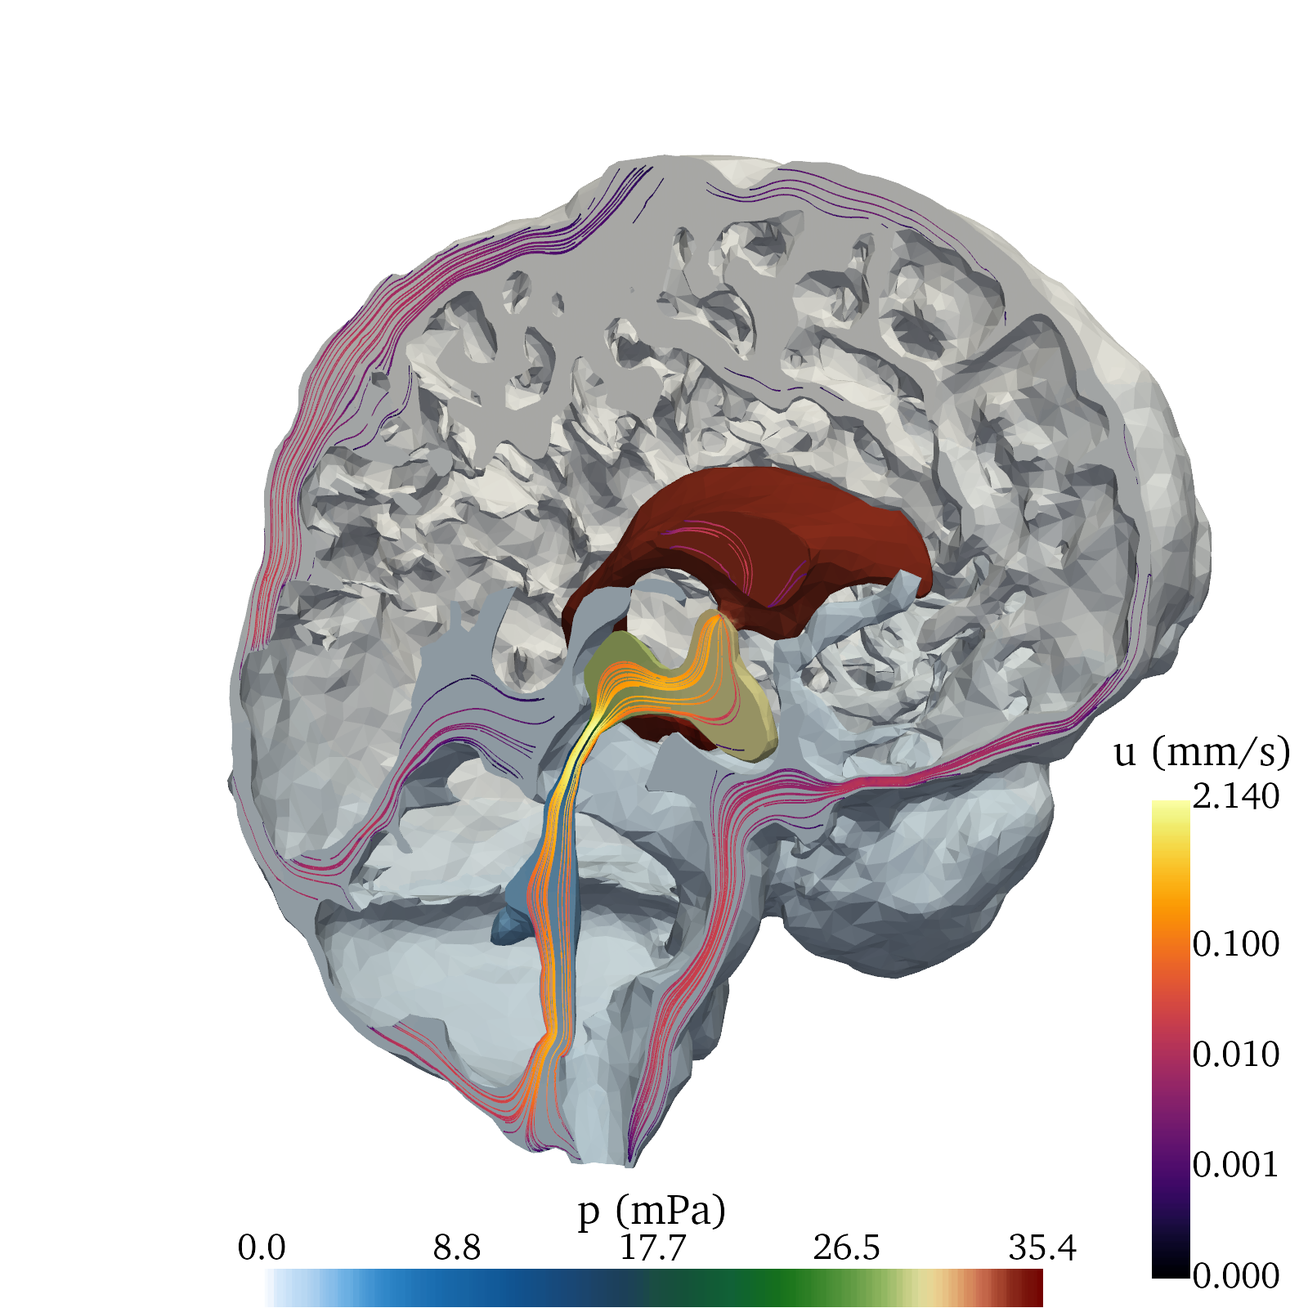
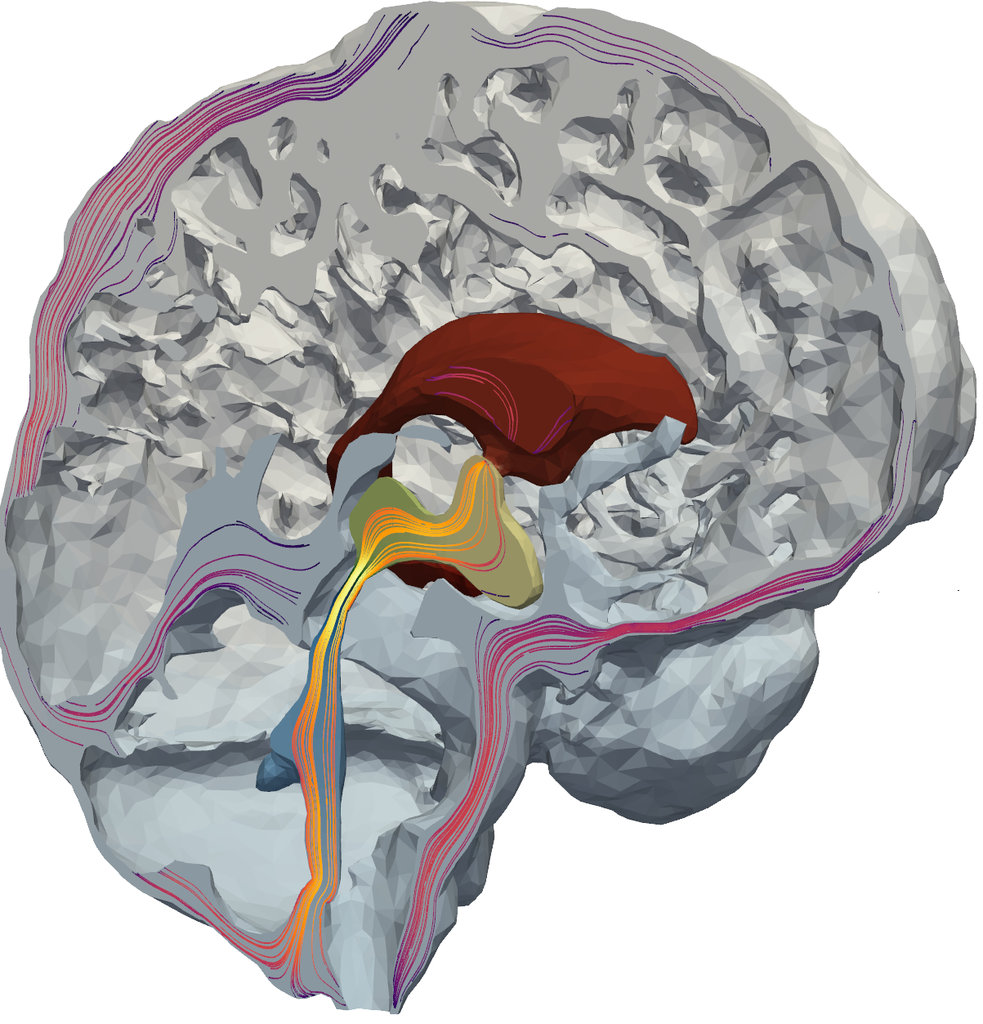
update figure 3

diff --git a/figure3.html b/figure3.html
@@ -1,33 +1,88 @@
-<style>
-    .svg-container text {
-      font-size: 16px;
-    }
-  </style>
-<img src="plots/meshplots/labeled_arteries.png" style="position:absolute;left:10px;top:25px;width:490px;height:380px;filter:hue-rotate(-00deg);object-fit:contain;">
-<img src="paper/figures/peristaltic_flow.png" style="position:relative;left:530px;top:10px;width:344px;height:90px;object-fit:contain;">
-<img src="plots/pvs_flow_prod/sas_flow-arteries/sas_flow-arteries_radius.png" style="position:absolute;left:480px;top:100px;width:230px;height:150px;object-fit:contain;">
-<img src="plots/pvs_flow_prod/sas_flow-arteries/sas_flow-arteries_velocity.png" style="position:absolute;left:680px;top:100px;width:230px;height:150px;object-fit:contain;">
-<img src="plots/pvs_flow_peristaltic/cardiac_pvs_oscillation/cardiac_pvs_oscillation_velocity.png" style="position:absolute;left:480px;top:230px;width:230px;height:150px;object-fit:contain;">
-<img src="plots/pvs_flow_peristaltic/vasomotion-strong/vasomotion-strong_velocity.png" style="position:absolute;left:680px;top:230px;width:230px;height:150px;object-fit:contain;">
-<img src="plots/modelA/modelA_conc_at_label.png" style="position:absolute;left:0px;top:370px;width:450px;height:160px;object-fit:contain;">
-<img src="plots/modelA-strongVM/modelA-strongVM_conc_at_label.png" style="position:absolute;left:0px;top:501px;width:450px;height:160px;object-fit:contain;clip-path:inset(30px 0px 0px 0px);filter:hue-rotate(200deg);">
-<img src="plots/pvs_flow_prod/sas_flow-arteries/sas_flow-arteries_velocity_histo_cell.png" style="position:absolute;left:450px;top:380px;width:170px;height:149px;">
-<img src="plots/pvs_flow_peristaltic/cardiac_pvs_oscillation/cardiac_pvs_oscillation_velocity_histo_cell.png" style="position:absolute;left:600px;top:380px;width:180px;height:150px;">
-<img src="plots/pvs_flow_peristaltic/vasomotion-strong/vasomotion-strong_velocity_histo_cell.png" style="position:absolute;left:750px;top:380px;width:176px;height:150px;">
-<img src="plots/modelA/modelA_ridgeline_total_smoothed.png" style="position:absolute;left:450px;top:550px;width:152px;height:200px;">
-<img src="plots/modelA-PVS-disp/modelA-PVS-disp_ridgeline_total_smoothed.png" style="position:absolute;left:610px;top:550px;width:152px;height:200px;">
-<img src="plots/modelA-strongVM/modelA-strongVM_ridgeline_total_smoothed.png" style="position:absolute;left:770px;top:550px;width:150px;height:200px;">
-<img src="plots/modelA/modelA_1-2-3-4_MCA-R-0.1-2.0-8.0-12.0_details.png" style="position:absolute;left:0px;top:630px;width:450px;height:160px;object-fit:contain;clip-path:inset(0px 0px 50px 0px);filter:hue-rotate(200deg);">
-<img src="plots/modelA-strongVM/modelA-strongVM_1-2-3-4_MCA-R-0.1-2.0-8.0-12.0_details.png" style="position:absolute;left:0px;top:712px;width:450px;height:160px;object-fit:contain;clip-path:inset(30px 0px 0px 0px);filter:hue-rotate(-200deg);">
-<img src="plots/modelA/modelA_2-4-6-8_ACA-A4-0.1-0.2-1.0-2.0_details.png" style="position:absolute;left:0px;top:830px;width:450px;height:160px;object-fit:contain;clip-path:inset(0px 0px 50px 0px);filter:hue-rotate(-200deg);">
-<img src="plots/modelA-strongVM/modelA-strongVM_2-4-6-8_ACA-A4-0.1-0.2-1.0-2.0_details.png" style="position:absolute;left:0px;top:910px;width:450px;height:160px;object-fit:contain;clip-path:inset(30px 0px 0px 0px);filter:hue-rotate(-200deg);">
-<img src="plots/modelA/modelA_overview_4-6.png" style="position:absolute;left:-10px;top:1055px;width:440px;height:440px;object-fit:contain;clip-path:inset(0px 90px 0px 0px);">
-<img src="plots/modelA-PVS-disp/modelA-PVS-disp_overview_4-6.png" style="position:absolute;left:270px;top:1055px;width:410px;height:440px;object-fit:contain;clip-path:inset(0px 90px 0px 0px);">
-<img src="plots/modelA-strongVM/modelA-strongVM_overview_4-6.png" style="position:absolute;left:530px;top:1055px;width:410px;height:440px;object-fit:contain;clip-path:inset(0px 0px 0px 0px);">
-<object type="image/svg+xml" data="plots/comparisons/modelA_modelA-strongVM_modelA-PVS-disp/modelA_modelA-strongVM_modelA-PVS-disp_fta.svg" style="position:absolute;left:450px;top:750px;width:480px;height:300px;"></object>
-<h2 style="position:absolute;left:500px;top:-13px;width:px;height:32px;transform-origin:15px 16px;translate:0px 0px;">A</h2>
-<h2 style="position:absolute;left:500px;top:59px;width:px;height:32px;transform-origin:663px 626px;translate:0px 0px;">B</h2>
-<h2 style="position:absolute;left:697px;top:64px;width:px;height:32px;transform-origin:15px 16px;translate:0px 0px;">C</h2>
-<h2 style="position:absolute;left:702px;top:200px;width:px;height:32px;transform-origin:15px 16px;translate:0px 0px;">D</h2>
-<h2 style="position:absolute;left:5px;top:330px;width:px;height:32px;transform-origin:15px 16px;translate:0px 0px;">E</h2>
-<h2 style="position:absolute;left:495px;top:200px;width:px;height:32px;transform-origin:15px 16px;translate:0px 0px;">F</h2>
+<html lang="en">
+    <head>
+        <meta charset="UTF-8">
+        <meta name="viewport" content="width=device-width, initial-scale=1.0">
+        <title>Figure 3</title>
+        <style>
+        @page {
+            size: A4;
+            margin: 1cm;
+        }
+
+        body {
+            font-family: Arial, sans-serif;
+        }
+
+        h5 {
+            color: black;
+            text-align: center;
+            font-size: 9pt;
+            font-family: Helvetica;
+        }
+        h4 {
+            color: black;
+            text-align: left;
+            font-size: 8pt;
+            font-family: Helvetica;
+        }
+
+        p {
+            font-family: "Arial";
+            text-align: center;
+            font-size: 7pt;
+            font-weight: normal;
+        }
+    </style>
+    </head>
+</html>
+<img src="plots/meshplots/labeled_arteries.png" style="position:absolute;left:16px;top:18px;width:490px;height:380px;object-fit:contain;">
+<img src="paper/figures/peristaltic_flow_vertical.png" style="position:absolute;left:516px;top:165px;width:68px;height:211px;object-fit:contain;rotate:0deg;">
+<img src="plots/modelA/modelA_conc_at_label_annotated.png" style="position:absolute;left:16px;top:366px;width:794px;height:171px;object-fit:contain;clip-path:inset(0px 0px 30px 0px);filter:hue-rotate(0deg);">
+<img src="plots/modelA-strongVM/modelA-strongVM_conc_at_label.png" style="position:absolute;left:16px;top:467px;width:794px;height:160px;object-fit:contain;clip-path:inset(39px 0px 0px 0px);filter:hue-rotate(00deg);">
+<img src="plots/pvs_flow_prod/sas_flow-arteries/sas_flow-arteries_velocity_histo_cell.png" style="filter:hue-rotate(-100deg);clip-path:inset(0px 0px 25px 0px);object-fit:contain;position:absolute;left:600px;top:22px;width:220px;height:140px;">
+<img src="plots/modelA/modelA_overview_4-6.png" style="position:absolute;left:-22px;top:1002px;width:401px;height:380px;object-fit:contain;clip-path:inset(0px 90px 0px 0px);">
+<img src="plots/modelA-strongVM//modelA-strongVM_overview_4-6.png" style="position:absolute;left:229px;top:1002px;width:379px;height:380px;object-fit:contain;clip-path:inset(0px 90px 0px 0px);">
+<img src="plots/modelA-PVS-disp/modelA-PVS-disp_overview_4-6.png" style="position:absolute;left:472px;top:1002px;width:375px;height:380px;object-fit:contain;clip-path:inset(0px 0px 0px 0px);">
+<img src="paper/figures/csf_v_prod.png" style="position:absolute;left:499px;top:42px;width:101px;height:96px;object-fit:contain;rotate:0deg;">
+<img src="plots/pvs_flow_peristaltic/cardiac_pvs_oscillation/cardiac_pvs_oscillation_velocity_histo_cell.png" style="filter:hue-rotate(-100deg);clip-path:inset(0px 0px 25px 0px);object-fit:contain;position:absolute;left:600px;top:148px;width:220px;height:140px;">
+<img src="plots/comparisons/modelA_modelA-strongVM_modelA-PVS-disp/modelA_modelA-strongVM_modelA-PVS-disp_fta.png" style="position:absolute;left:1px;top:598px;width:400px;height:219px;object-fit:contain;clip-path:inset(0px 0px 0px 0px);filter:hue-rotate(00deg);">
+<img src="plots/modelA/modelA_ridgeline_pvs_total_smoothed.png" style="position:absolute;left:0px;top:803px;width:205px;height:200px;object-fit:contain;clip-path:inset(0px 0px 0px 0px);filter:hue-rotate(-30deg);">
+<img src="plots/modelA-strongVM/modelA-strongVM_ridgeline_pvs_total_smoothed.png" style="position:absolute;left:197px;top:803px;width:205px;height:200px;object-fit:contain;clip-path:inset(0px 0px 0px 0px);filter:hue-rotate(40deg);">
+<img src="plots/modelA/modelA_1+2+3+4_MCA-R_0.2+5.0+20.0+20.0_details.png" style="position:absolute;left:401px;top:583px;width:414px;height:163px;object-fit:contain;clip-path:inset(0px 0px 50px 15px);filter:hue-rotate(200deg);">
+<img src="plots/modelA-strongVM/modelA-strongVM_1+2+3+4_MCA-R_0.2+5.0+20.0+20.0_details.png" style="position:absolute;left:401px;top:662px;width:414px;height:161px;object-fit:contain;clip-path:inset(38px 0px 37px 15px);filter:hue-rotate(200deg);">
+<img src="plots/modelA/modelA_2+4+6+8_MCA2-R_0.2+8.0+8.0+5.0_details.png" style="position:absolute;left:401px;top:775px;width:413px;height:163px;object-fit:contain;clip-path:inset(0px 0px 50px 15px);filter:hue-rotate(200deg);">
+<img src="plots/modelA-strongVM/modelA-strongVM_2+4+6+8_MCA2-R_0.2+8.0+8.0+5.0_details.png" style="position:absolute;left:401px;top:854px;width:413px;height:161px;object-fit:contain;clip-path:inset(38px 0px 0px 15px);filter:hue-rotate(200deg);">
+<img src="plots/pvs_flow_peristaltic/vasomotion-strong/vasomotion-strong_velocity_histo_cell.png" style="filter:hue-rotate(-100deg);object-fit:contain;position:absolute;left:599px;top:274px;width:220px;height:140px;">
+<p style="position:absolute;left:639px;top:12px;width:171px;height:20px;">pressure-driven flow</p>
+<p style="position:absolute;left:639px;top:133px;width:171px;height:20px;">cardiac-driven flow</p>
+<p style="position:absolute;left:639px;top:260px;width:171px;height:20px;">vasomotion-driven flow</p>
+<p style="position:absolute;left:46px;top:986px;width:160px;height:20px;transform-origin:83px 10px;translate:0px 0px;">baseline</p>
+<p style="position:absolute;left:218px;top:793px;width:184px;height:20px;">high PVS flow</p>
+<h3 style="position:absolute;left:11px;top:8px;width:22px;height:21px;">A</h3>
+<h3 style="position:absolute;left:6px;top:350px;width:22px;height:21px;">G</h3>
+<h3 style="position:absolute;left:499px;top:5px;width:22px;height:21px;">B</h3>
+<h3 style="position:absolute;left:587px;top:5px;width:22px;height:21px;">C</h3>
+<h3 style="position:absolute;left:499px;top:5px;width:22px;height:21px;">B</h3>
+<h3 style="position:absolute;left:499px;top:5px;width:22px;height:21px;">B</h3>
+<h3 style="position:absolute;left:499px;top:124px;width:22px;height:21px;">D</h3>
+<h3 style="position:absolute;left:587px;top:123px;width:22px;height:21px;">E</h3>
+<h3 style="position:absolute;left:587px;top:249px;width:22px;height:21px;">F</h3>
+<h3 style="position:absolute;left:6px;top:590px;width:22px;height:21px;">H</h3>
+<h3 style="position:absolute;left:403px;top:590px;width:22px;height:21px;">I</h3>
+<h3 style="position:absolute;left:402px;top:776px;width:22px;height:21px;">J</h3>
+<h3 style="position:absolute;left:6px;top:776px;width:22px;height:21px;">K</h3>
+<h3 style="position:absolute;left:6px;top:975px;width:22px;height:21px;">L</h3>
+<h3 style="position:absolute;left:243px;top:975px;width:22px;height:21px;">M</h3>
+<h3 style="position:absolute;left:484px;top:975px;width:22px;height:21px;">N</h3>
+<p style="position:absolute;left:281px;top:986px;width:181px;height:20px;transform-origin:83px 10px;translate:0px 0px;">high PVS flow</p>
+<p style="position:absolute;left:521px;top:987px;width:181px;height:20px;transform-origin:83px 10px;translate:0px 0px;">high PVS dispersion</p>
+<p style="position:absolute;left:20px;top:793px;width:177px;height:20px;">baseline</p>
+<p style="position:absolute;left:381px;top:663px;width:64px;height:20px;rotate:270deg;">baseline</p>
+<p style="position:absolute;left:369px;top:741px;width:88px;height:20px;rotate:270deg;">High PVS flow</p>
+<p style="position:absolute;left:370px;top:913px;width:88px;height:20px;rotate:270deg;">High PVS flow</p>
+<p style="position:absolute;left:381px;top:834px;width:64px;height:20px;rotate:270deg;">baseline</p>
+<p style="position:absolute;left:-30px;top:530px;width:88px;height:20px;rotate:270deg;">High PVS flow</p>
+<p style="position:absolute;left:-18px;top:434px;width:64px;height:20px;rotate:270deg;">baseline</p>
+<p style="position:absolute;left:587px;top:621px;width:65px;height:20px;transform-origin:83px 10px;translate:0px 0px;">MCA-R</p>
+<p style="position:absolute;left:587px;top:818px;width:65px;height:20px;transform-origin:83px 10px;translate:0px 0px;">MCA2-R</p>
+<p style="position:absolute;left:16px;top:787px;width:383px;height:20px;">total PVS tracer content</p>

diff --git a/scripts/compare_PVS_timing.py b/scripts/compare_PVS_timing.py
@@ -16,6 +16,7 @@ def plot_timings(models:List[str]):
 
     results = dict()
     for m in models:
+        print(f"reading {m}")
         md = dict()
         md.update(read_config(f"results/{m}/mean_concentrations.yml"))
         results[m] = md
@@ -30,45 +31,61 @@ def plot_timings(models:List[str]):
     ftas["dist"] = [results[m][f"{n}_root_dist"] for n in arteries]
     pts["dist"] = [results[m][f"{n}_root_dist"] for n in arteries]
 
-    art_groups = {"MCA (left)": ["ICA-L", "MCA-L", "MCA2-L", ], #"PER-L"],
-                  "MCA (right)": ["ICA-R", "MCA-R", "MCA2-R", ], # "PER-R"],
-                  "PCA (left)": ["BA", "PCA-L"],
-                  "PCA (right)": ["BA", "PCA-R"],
+    art_groups = {"MCA-L": ["ICA-L", "MCA-L", "MCA2-L", ], #"PER-L"],
+                  "MCA-R": ["ICA-R", "MCA-R", "MCA2-R", ], # "PER-R"],
+                  "PCA-L": ["BA", "PCA-L"],
+                  "PCA-R": ["BA", "PCA-R"],
                   "ACA": ["BA", "ACA-A1-L", "ACA-A2", "ACA-A3",], # "ACA-A4"],
         }
     
-    namedict = {"modelA": "base", "modelA-strongVM":"base + VM",
-                "modelA-PVS-disp": "base + 10x disp",}
+    namedict = {"modelA": "baseline", "modelA-strongVM":"high PVS flow",
+                "modelA-PVS-disp": "high PVS dispersion",}
+    markerdict = {"modelA": "d", "modelA-strongVM":"s",
+                "modelA-PVS-disp": "o",}
     print(models)
-    colors = [ "#3a0ca3","#f72585", "#4cc9f0"]
+    coldict = {"modelA-strongVM":"#6610f2","modelA":"#0b774d", "modelA-PVS-disp":"#f7b801"}
 
     for t, (pvsdf, outerdf) in zip(["fta", "peaktime"] , [(ftas, outerftas), (pts, otps)]):
-        fig, axes = plt.subplots(ncols=len(art_groups), figsize=(12,5.5))
+        fig, axes = plt.subplots(ncols=len(art_groups), figsize=(9,4))
 
         for i, (ax, (agn, ag))  in enumerate(zip(axes, art_groups.items())):
-            for m,c in zip(models, colors):
+            for m in models:
+                print(m)
                 group = pvsdf.loc[ag]
                 outergroup = outerdf.loc[ag]
-                ax.plot(group["dist"], group[m] / 3600, color=c, marker="o", markersize=8, ls="dashed",
-                        label=f"{namedict[m]} - PVS" if i==0 else None)
-                ax.plot(group["dist"], outergroup[m] / 3600, color=c, marker="x", markersize=5, ls="dotted",
-                        label=f"{namedict[m]} - outer PVS" if i==0 else None)
-                ax.fill_between(group["dist"], group[m] / 3600, outergroup[m] / 3600, 
-                                color=c, alpha=0.3)                     
+                ax.plot(group["dist"], group[m] / 3600, color=coldict[m],
+                         marker=markerdict[m],
+                         markersize=8, ls="dashed",
+                        label=f"{namedict[m]}" if i==0 else None)
+                #ax.plot(group["dist"], outergroup[m] / 3600, color=c, marker="x", markersize=5, ls="dotted",
+                #        label=f"{namedict[m]} - outer PVS" if i==0 else None)
+                #ax.fill_between(group["dist"], group[m] / 3600, outergroup[m] / 3600, 
+                #                color=c, alpha=0.3)                     
                 ax.set_title(agn, y=1.04)
                 #ax.legend(loc='upper center', bbox_to_anchor=(0.5, 1.17), ncol=2, 
                 #        columnspacing=0.3, frameon=False)
-                ax.set_xlabel("distance from root (m)")
-                if t=="fta":ax.set_ylabel("first-time arrival (h)");ax.set_ylim((0.5, 5.0))
-                elif t=="peaktime":ax.set_ylabel("time-of-peak (h)");ax.set_ylim((2, 9.1))
-                ax.set_xlim((-0.035, 0.1))
+                ax.set_xlabel("distance (m)")
+                if i==0:  
+                    if t=="fta":ax.set_ylabel("first-time arrival (h)")
+                    elif t=="peaktime":ax.set_ylabel("time-of-peak (h)")
+                    ax.set_xlim((-0.05, 0.1))
+
+                else:
+                    ax.spines['left'].set_visible(False)
+                    ax.get_yaxis().set_ticks([])
+                    ax.set_xlim((0, 0.1))
+                ax.get_xaxis().set_ticks([0,0.05, 0.1], ["0","0.05", "0.1"])
+                if t=="fta": ax.set_ylim((0.5, 5.0))
+                elif t=="peaktime": ax.set_ylim((2, 9.1))
                 for ln in ag:
                     ax.annotate(ln, (pvsdf["dist"].loc[ln], pvsdf["modelA"].loc[ln] / 3600),
-                            horizontalalignment="right", textcoords='offset points', xytext=(-3,8))
+                                horizontalalignment="right", textcoords='offset points',
+                                  xytext=(-3,8), fontsize=9)
         plt.figlegend(loc='upper center', bbox_to_anchor=(0.5, 1.05), ncol=len(models)*2,
                 columnspacing=0.3, frameon=False)
         plt.tight_layout(w_pad=-0.5)
-        plt.savefig(f"plots/comparisons/{v}/{v}_{t}.svg", bbox_inches='tight')
+        plt.savefig(f"plots/comparisons/{v}/{v}_{t}.png", bbox_inches='tight',
+                    dpi=400)
 
 if __name__ == "__main__":
     typer.run(plot_timings)

diff --git a/scripts/plot_conc_at_label.py b/scripts/plot_conc_at_label.py
@@ -16,22 +16,18 @@ def plot_conc_at_label(model:str):
     set_plotting_defaults()
 
     artlabelsets = [["BA",],#["ICA-L", "ICA-R"], 
-                    ["MCA-L", "MCA-R"],["MCA2-L", "MCA2-R"], 
+                    ["MCA-L"],["MCA-R"],["MCA2-L"],["MCA2-R"], 
                     #["ACA-A1-L", "ACA-A1-R"], 
-                    ["ACA-A2", "ACA-A3"],
+                    ["ACA-A2"],["ACA-A3"],
                     #["PCA-L", "PCA-R"], 
                     #["PER-L", "PER-R"]
                     ]
-    
+
     #from IPython import embed; embed()
     artlabels = sum(artlabelsets, [])
 
-    coldict = dict()
-    colors = ["#f72585", "#3a0ca3", "#4cc9f0"]
-
-    for al in artlabelsets:
-        coldict.update(dict(zip(al, colors)))
-    print(coldict)
+    coldict = {"modelA-strongVM":"#6610f2","modelA":"#0b774d"}
+    col = coldict[model]
     pvspeaktimedict = {n:results[f"{n}_pvs_peak_time"] for n in artlabels}
     pvsftadict = {n:results[f"{n}_fta"] for n in artlabels}
     lagdict = {n:results[f"{n}_lag"] for n in artlabels}
@@ -44,13 +40,12 @@ def plot_conc_at_label(model:str):
     nrows = 1
     ncols = int(np.ceil(len(artlabelsets) / nrows))
     for annotate in [True, False]:
-        fig, axes = plt.subplots(nrows, ncols, figsize=(int(ncols*3),nrows*3.5), constrained_layout=True)
+        fig, axes = plt.subplots(nrows, ncols, figsize=(int(ncols*2.8),nrows*2.8), constrained_layout=True)
         for ax, al_set in zip(axes.flatten(), artlabelsets):
             peaks, lags, ftas = [],[],[]
             for n in al_set:
-                col = coldict[n]
-                h1 = ax.plot(times / 3600, conc_at_point[n], color=col, label=n)
-                h2 = ax.plot(times / 3600, avg_conc_around_point[n], color=col, ls="dashed")
+                h1 = ax.plot(times / 3600, conc_at_point[n], color=col, ls="dashed")
+                h2 = ax.plot(times / 3600, avg_conc_around_point[n], color=col, ls="dotted")
                 ax.fill_between(times / 3600, conc_at_point[n], avg_conc_around_point[n],
                                 alpha=0.2, color=col)
                 peaks.append(pvspeaktimedict[n]); lags.append(lagdict[n]), ftas.append(pvsftadict[n])
@@ -86,24 +81,26 @@ def plot_conc_at_label(model:str):
             text = (f"peak: {('/' + nl).join(format_secs(p) for p in peaks)}h" + nl +
                     f"Δt: {('/' + nl).join(('' if l>-60 else '-') + format_secs(l) for l in lags)}h" + nl +
                     f"FTA: {('/' + nl).join(format_secs(p) for p in ftas if p is not None)}h")
-            textleft =  np.mean(peaks) > 5*3600
+            textleft =  np.mean(peaks) > 12*3600
             x_text = 0.03 if textleft else 1
             ax.set_xlim((0, 12))
-            ax.text(x_text, 0.92,
+            if al_set[0]=="BA":
+                ax.set_ylim((-5, 62))
+            else: ax.set_ylim((-1, 16))
+
+            ax.text(x_text, 0.95,
                     text, transform=ax.transAxes, horizontalalignment='left' if textleft else "right",
                     verticalalignment="top")
 
-            ax.legend(loc='upper center', bbox_to_anchor=(0.5, 1.1), ncol=2, 
-                    columnspacing=0.3, frameon=False)
+            ax.set_title(" ".join(al_set), loc='center', y=1)
             ax.set_xlabel("time (h)")
-            ax.set_ylabel("concentration (mmol/l)")
+            if al_set== artlabelsets[0]: ax.set_ylabel("concentration (mmol/l)")
         leg = plt.figlegend(handles =[h1[0], h2[0]],# h3[0]],
-                    labels=["PVS", "outside PVS"], 
+                    labels=[ "PVS", "outside PVS"],
                             #f"PVS proximity (R + {int(proximity_dist*1e3)} mm)"],
-                    loc='lower center', #facecolor="white", 
-                    edgecolor="black", frameon=False,
-                    ncols=3, bbox_to_anchor=(0.5, 0.98))
-        for lh in leg.legend_handles: lh.set_color('black')
+                    loc='lower center', #facecolor="white", edgecolor="black",
+                    frameon=False, ncols=2, bbox_to_anchor=(0.5, 0.98))
+        #for lh in leg.legend_handles: lh.set_color('black')
 
         plt.savefig(f"plots/{model}/{model}_conc_at_label{'_annotated' if annotate else ''}.png",
                     bbox_inches='tight', dpi=300)

diff --git a/scripts/plot_conc_ridgeline.py b/scripts/plot_conc_ridgeline.py
@@ -24,7 +24,7 @@ def plot_conc_ridgeline(model:str):
     times = np.arange(0, T + dt, 3*dt*config["output_frequency"])
     set_plotting_defaults()
     labeldist = {n:results[f"{n}_root_dist"] for n in artlabels}
-    xrange = (0, 0.25)
+    xrange = (0, 0.2)
     timespoints = np.array([1,2, 3,4,5, 6, 9, 12])*3600
     timeidx = np.where(np.isin(times, timespoints))[0]
     binedges = np.linspace(*xrange, 50)
@@ -55,12 +55,12 @@ def plot_conc_ridgeline(model:str):
                                         for t,d in zip(timespoints, data)}, index=xdata)
                 ridge_data = ridge_data[ridge_data.columns[::-1]]
                 fig, ax = joypy.joyplot(ridge_data, colormap=Colormap("Blues_r"), kind="values",
-                                        x_range=(0, len(xdata)), alpha=0.8, figsize=(6,6), overlap=1.5,
+                                        x_range=(0, len(xdata)), alpha=0.8, figsize=(5.5,4.5), overlap=1.5,
                                         #title="Total PVS tracer content", 
                                         )
-                ax[-1].set_xlabel("distance from root (m)")
+                ax[-1].set_xlabel("distance (m)")
                 ax[-1].set_xticks(np.linspace(0, len(xdata), 5, endpoint=False),
-                                np.linspace(*xdata[[0, -1]], 5, endpoint=False).round(2))
+                                  np.linspace(*xdata[[0, -1]], 5, endpoint=False).round(2))
 
                 secxa, secxb = ax[-1].secondary_xaxis(0.9), ax[-1].secondary_xaxis(0.9)
                 toplabels, bottomlabels = artlabels[0::2], artlabels[1::2]
@@ -72,7 +72,7 @@ def plot_conc_ridgeline(model:str):
                                 bottomlabels, rotation=45)
                 secxb.tick_params(top=False, labeltop=False, bottom=True, labelbottom=True)
                 fig.savefig(f"plots/{model}/{model}_ridgeline_{datatype}_{plottype}_{s}.png",
-                            bbox_inches='tight')
+                            bbox_inches='tight', dpi=400)
 
 
 if __name__ == "__main__":

diff --git a/scripts/pvs_flow_prod.py b/scripts/pvs_flow_prod.py
@@ -35,13 +35,13 @@ def get_blood_flow_orientation(tau, radius_f, root_marker):
     return uh_sign
 # --------------------------------------------------------------------
 
-def compute_pvs_flow(csf_flow_model:  str, network: str):
+def compute_pvs_flow(csf_flow_model:  str, network: str, radius_ratio:str):
 
-    radius_ratio = 2
     networkfile = f"mesh/networks/{network}_smooth.vtk"
     mesh, artery_radii, artery_roots = read_vtk_network(networkfile, rescale_mm2m=False)
     pressure_file = f"results/csf_flow/{csf_flow_model}/flow.hdf"
-    results_dir = f"results/pvs_flow_prod/{csf_flow_model}-{network}/"
+    results_dir = f"results/pvs_flow_prod/{csf_flow_model}-{network}-{radius_ratio}/"
+    radius_ratio = float(radius_ratio)
     csf_flow_config = read_config(f"configfiles/{csf_flow_model}.yml")
     radius_f = as_P0_function(artery_radii)
     

diff --git a/scripts/evaluate_pvs_flow.py b/scripts/evaluate_pvs_flow.py
@@ -73,7 +73,7 @@ def compute_pvs_flow(pvs_flow_file):
         umed = np.median(abs(uvals))
         range = np.round(minmax([uvals], percentile=99.9), 1)
         nbins = 50
-        fig, ax = plt.subplots(figsize=(3.5,3.5))
+        fig, ax = plt.subplots(figsize=(5,2.8))
         counts, bins, containers = plt.hist(uvals, density=False, bins=nbins, histtype="bar",
                 range=range, edgecolor='black', linewidth=0.4, 
                         weights=lengths / lengths.sum())
